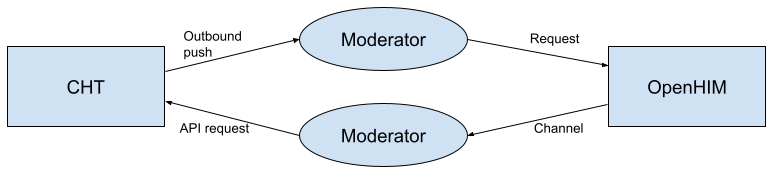
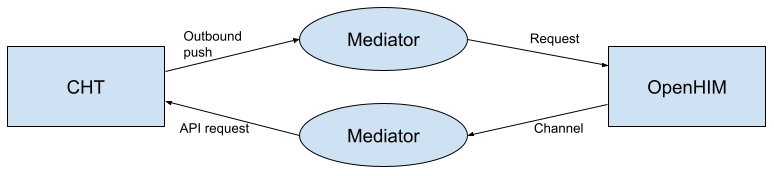
deploy: medic/cht-docs@d289a5fe4b73ff09335dff19f87dbf5526a49cdf

Changed region(s): [[0.4341, 0.7102, 0.5581, 0.8239], [0.4341, 0.1705, 0.5581, 0.2841]]

diff --git a/apps/concepts/interoperability/index.html b/apps/concepts/interoperability/index.html
@@ -1,7 +1,7 @@
 <!doctype html><html itemscope itemtype=http://schema.org/WebPage lang=en class=no-js><head><meta charset=utf-8><meta name=viewport content="width=device-width,initial-scale=1,shrink-to-fit=no"><meta name=generator content="Hugo 0.101.0"><meta name=robots content="index, follow"><link rel="shortcut icon" href=/favicons/favicon.ico><link rel=apple-touch-icon href=/favicons/apple-touch-icon-180x180.png sizes=180x180><link rel=icon type=image/png href=/favicons/favicon-16x16.png sizes=16x16><link rel=icon type=image/png href=/favicons/favicon-32x32.png sizes=32x32><link rel=icon type=image/png href=/favicons/android-36x36.png sizes=36x36><link rel=icon type=image/png href=/favicons/android-48x48.png sizes=48x48><link rel=icon type=image/png href=/favicons/android-72x72.png sizes=72x72><link rel=icon type=image/png href=/favicons/android-96x96.png sizes=96x96><link rel=icon type=image/png href=/favicons/android-144x144.png sizes=144x144><link rel=icon type=image/png href=/favicons/android-192x192.png sizes=192x192><title>Interoperability | Community Health Toolkit</title><meta name=description content="Exchanging information between CHT Core and other systems
 "><meta property="og:title" content="Interoperability"><meta property="og:description" content="Exchanging information between CHT Core and other systems
-"><meta property="og:type" content="article"><meta property="og:url" content="https://docs.communityhealthtoolkit.org/apps/concepts/interoperability/"><meta property="article:section" content="apps"><meta property="article:modified_time" content="2022-09-23T10:04:29+12:00"><meta property="og:site_name" content="Community Health Toolkit"><meta itemprop=name content="Interoperability"><meta itemprop=description content="Exchanging information between CHT Core and other systems
-"><meta itemprop=dateModified content="2022-09-23T10:04:29+12:00"><meta itemprop=wordCount content="312"><meta itemprop=keywords content><meta name=twitter:card content="summary"><meta name=twitter:title content="Interoperability"><meta name=twitter:description content="Exchanging information between CHT Core and other systems
+"><meta property="og:type" content="article"><meta property="og:url" content="https://docs.communityhealthtoolkit.org/apps/concepts/interoperability/"><meta property="article:section" content="apps"><meta property="article:modified_time" content="2022-10-24T23:39:20+03:00"><meta property="og:site_name" content="Community Health Toolkit"><meta itemprop=name content="Interoperability"><meta itemprop=description content="Exchanging information between CHT Core and other systems
+"><meta itemprop=dateModified content="2022-10-24T23:39:20+03:00"><meta itemprop=wordCount content="312"><meta itemprop=keywords content><meta name=twitter:card content="summary"><meta name=twitter:title content="Interoperability"><meta name=twitter:description content="Exchanging information between CHT Core and other systems
 "><link rel=preload href=/scss/main.min.1604795c89f6fbc83677a07dc13bb6ab15dd14fa8987efdac3897394da13c282.css as=style><link href=/scss/main.min.1604795c89f6fbc83677a07dc13bb6ab15dd14fa8987efdac3897394da13c282.css rel=stylesheet integrity><script src=https://code.jquery.com/jquery-3.6.0.min.js integrity=sha384-vtXRMe3mGCbOeY7l30aIg8H9p3GdeSe4IFlP6G8JMa7o7lXvnz3GFKzPxzJdPfGK crossorigin=anonymous></script>
 <script type=application/javascript>var doNotTrack=!1;doNotTrack||(window.ga=window.ga||function(){(ga.q=ga.q||[]).push(arguments)},ga.l=+new Date,ga("create","UA-168418637-1","auto"),ga("send","pageview"))</script><script async src=https://www.google-analytics.com/analytics.js></script></head><body class=td-page><header><nav class="js-navbar-scroll navbar navbar-expand navbar-dark flex-column flex-md-row td-navbar"><a class=navbar-brand href=/><span class=navbar-logo></span><span class=font-weight-bold>Community Health Toolkit</span></a><div class="td-navbar-nav-scroll ml-md-auto" id=main_navbar><ul class="navbar-nav mt-2 mt-lg-0"><li class="nav-item mr-4 mb-2 mb-lg-0"><a class=nav-link href=/apps/reference/><span>Reference</span></a></li></ul></div><div class="navbar-nav d-none d-lg-block"><input type=search class="form-control td-search-input" placeholder="&#xf002; Search this site…" aria-label="Search this site…" autocomplete=off></div></nav></header><div class="container-fluid td-outer"><div class=td-main><div class="row flex-xl-nowrap"><aside class="col-12 col-md-3 col-xl-2 td-sidebar d-print-none"><div id=td-sidebar-menu class=td-sidebar__inner><form class="td-sidebar__search d-flex align-items-center"><input type=search class="form-control td-search-input" placeholder="&#xf002; Search this site…" aria-label="Search this site…" autocomplete=off>
 <button class="btn btn-link td-sidebar__toggle d-md-none p-0 ml-3 fas fa-bars" type=button data-toggle=collapse data-target=#td-section-nav aria-controls=td-section-nav aria-expanded=false aria-label="Toggle section navigation"></button></form><nav class="collapse td-sidebar-nav foldable-nav" id=td-section-nav><ul class="td-sidebar-nav__section ul-0"><li class="td-sidebar-nav__section-title td-sidebar-nav__section with-child active-path" id=m--li><ul class=ul-1><li class="td-sidebar-nav__section-title td-sidebar-nav__section without-child" id=m-why-the-cht-li><input type=checkbox id=m-why-the-cht-check>
@@ -220,12 +220,12 @@
 <label for=m-contributedocsstyle-guide-check><a href=/contribute/docs/style-guide/ title="Documentation Style Guide" class="align-left pl-0 td-sidebar-link td-sidebar-link__page" id=m-contributedocsstyle-guide><span>Style Guide</span></a></label></li></ul></li><li class="td-sidebar-nav__section-title td-sidebar-nav__section without-child" id=m-contributecode-of-conduct-li><input type=checkbox id=m-contributecode-of-conduct-check>
 <label for=m-contributecode-of-conduct-check><a href=/contribute/code-of-conduct/ class="align-left pl-0 td-sidebar-link td-sidebar-link__page" id=m-contributecode-of-conduct><span>Code of Conduct</span></a></label></li></ul></li><li class="td-sidebar-nav__section-title td-sidebar-nav__section without-child" id=m-glossary-li><input type=checkbox id=m-glossary-check>
 <label for=m-glossary-check><a href=/glossary/ title="Glossary and Definitions" class="align-left pl-0 td-sidebar-link td-sidebar-link__page" id=m-glossary><span>Glossary</span></a></label></li></ul></li></ul></nav></div></aside><aside class="d-none d-xl-block col-xl-2 td-sidebar-toc d-print-none"><div class="td-page-meta ml-2 pb-1 pt-2 mb-0"><a href=https://github.com/medic/cht-docs/edit/main/content/en/apps/concepts/interoperability.md class=td-page-meta--edit target=_blank rel=noopener><i class="fa fa-edit fa-fw"></i> Edit this page</a>
-<a href="https://github.com/medic/cht-docs/issues/new?title=Improve+%27Interoperability%27&labels=enhancement&body=Page:+/apps/concepts/interoperability/%0aVersion:+2022-09-23%2010:04:29%20+1200%20+1200%0a---" class=td-page-meta--issue target=_blank rel=noopener><i class="fab fa-github fa-fw"></i> Create documentation issue</a>
-<a href=https://github.com/medic/cht-core/issues/new class=td-page-meta--project-issue target=_blank rel=noopener><i class="fas fa-tasks fa-fw"></i> Create project issue</a></div></aside><main class="col-12 col-md-9 col-xl-8 pl-md-5" role=main><nav aria-label=breadcrumb class=td-breadcrumbs><ol class=breadcrumb><li class=breadcrumb-item><a href=https://docs.communityhealthtoolkit.org/apps/>CHT Applications</a></li><li class=breadcrumb-item><a href=https://docs.communityhealthtoolkit.org/apps/concepts/>Concepts</a></li><li class="breadcrumb-item active" aria-current=page><a href=https://docs.communityhealthtoolkit.org/apps/concepts/interoperability/ aria-disabled=true class="btn-link disabled">Interoperability</a></li></ol></nav><div class=td-content><h1>Interoperability</h1><div class=lead>Exchanging information between CHT Core and other systems</div><header class=article-meta></header><h1 id=introduction>Introduction</h1><p>Interoperability is the ability of health information systems to work together, even if they weren&rsquo;t specifically designed to work together. With interoperability, patient information can be seen, exchanged, and used across different platforms. This is different from <em>integration</em> which requires custom development to connect two specific systems together.</p><p>Interoperability is the best practice for health systems because it allows information from one system to be shared with one or more other systems for with no additional development.</p><h1 id=components>Components</h1><p>Useful components and reference information for interoperability include</p><ul><li><a href=https://ohie.org/>OpenHIE</a> defines the architecture for an interoperability layer.</li><li><a href=http://openhim.org/>OpenHIM</a> is a middleware component designed to ease interoperability between systems.</li><li><a href=https://www.hl7.org/fhir/index.html>HL7 FHIR</a> is a messaging format to allow all systems to understand the format of the message.</li><li><a href=https://www.who.int/standards/classifications/classification-of-diseases>ICD-11</a> and <a href=https://loinc.org/>LOINC</a> are examples of classification systems.</li></ul><h1 id=cht>CHT</h1><p>The structure of documents in the CHT database reflect the configuration of the system, and therefore do not map directly to a FHIR message format. To achieve interoperability you should use middleware to convert the CHT datastructure into a standardized form so the other systems can read it.</p><figure><a href=flow.png><img src=flow.png></a></figure><p>The recommended approach is to use OpenHIM as the middleware component with Moderators to do the conversion. <a href=https://docs.communityhealthtoolkit.org/apps/reference/app-settings/outbound/>Outbound Push</a> should be configured to make a request to the middleware when relevant documents are created or modified in the CHT. A Moderator then calls <a href=https://docs.communityhealthtoolkit.org/apps/reference/api/>CHT APIs</a> to gather any additional data required to create a FHIR resource which is then routed to OpenHIM. OpenHIM will then route the resource to any other configured systems.</p><p>Conversely to bring data in to the CHT, OpenHIM should be configured to route the updated resource to a moderator, which then calls the relevant CHT APIs to update the document in the CHT database. This will then be replicated to users&rsquo; devices as per usual.</p><p>A reference application for this pattern is available in the <a href=https://github.com/medic/chis-interoperability>CHIS Interoperability repository</a>.</p><h2 id=related-content>Related Content</h2><div class=section-index><hr class=panel-line><div class=entry><h5><a href=/apps/features/integrations/>CHT Applications >
+<a href="https://github.com/medic/cht-docs/issues/new?title=Improve+%27Interoperability%27&labels=enhancement&body=Page:+/apps/concepts/interoperability/%0aVersion:+2022-10-24%2023:39:20%20+0300%20+0300%0a---" class=td-page-meta--issue target=_blank rel=noopener><i class="fab fa-github fa-fw"></i> Create documentation issue</a>
+<a href=https://github.com/medic/cht-core/issues/new class=td-page-meta--project-issue target=_blank rel=noopener><i class="fas fa-tasks fa-fw"></i> Create project issue</a></div></aside><main class="col-12 col-md-9 col-xl-8 pl-md-5" role=main><nav aria-label=breadcrumb class=td-breadcrumbs><ol class=breadcrumb><li class=breadcrumb-item><a href=https://docs.communityhealthtoolkit.org/apps/>CHT Applications</a></li><li class=breadcrumb-item><a href=https://docs.communityhealthtoolkit.org/apps/concepts/>Concepts</a></li><li class="breadcrumb-item active" aria-current=page><a href=https://docs.communityhealthtoolkit.org/apps/concepts/interoperability/ aria-disabled=true class="btn-link disabled">Interoperability</a></li></ol></nav><div class=td-content><h1>Interoperability</h1><div class=lead>Exchanging information between CHT Core and other systems</div><header class=article-meta></header><h1 id=introduction>Introduction</h1><p>Interoperability is the ability of health information systems to work together, even if they weren&rsquo;t specifically designed to work together. With interoperability, patient information can be seen, exchanged, and used across different platforms. This is different from <em>integration</em> which requires custom development to connect two specific systems together.</p><p>Interoperability is the best practice for health systems because it allows information from one system to be shared with one or more other systems for with no additional development.</p><h1 id=components>Components</h1><p>Useful components and reference information for interoperability include</p><ul><li><a href=https://ohie.org/>OpenHIE</a> defines the architecture for an interoperability layer.</li><li><a href=http://openhim.org/>OpenHIM</a> is a middleware component designed to ease interoperability between systems.</li><li><a href=https://www.hl7.org/fhir/index.html>HL7 FHIR</a> is a messaging format to allow all systems to understand the format of the message.</li><li><a href=https://www.who.int/standards/classifications/classification-of-diseases>ICD-11</a> and <a href=https://loinc.org/>LOINC</a> are examples of classification systems.</li></ul><h1 id=cht>CHT</h1><p>The structure of documents in the CHT database reflect the configuration of the system, and therefore do not map directly to a FHIR message format. To achieve interoperability you should use middleware to convert the CHT datastructure into a standardized form so the other systems can read it.</p><figure><a href=flow.png><img src=flow.png></a></figure><p>The recommended approach is to use OpenHIM as the middleware component with <a href=http://openhim.org/docs/configuration/mediators/>Mediators</a> to do the conversion. <a href=https://docs.communityhealthtoolkit.org/apps/reference/app-settings/outbound/>Outbound Push</a> should be configured to make a request to the middleware when relevant documents are created or modified in the CHT. A Mediator then calls <a href=https://docs.communityhealthtoolkit.org/apps/reference/api/>CHT APIs</a> to gather any additional data required to create a FHIR resource which is then routed to OpenHIM. OpenHIM will then route the resource to any other configured systems.</p><p>Conversely to bring data in to the CHT, OpenHIM should be configured to route the updated resource to a Mediator, which then calls the relevant CHT APIs to update the document in the CHT database. This will then be replicated to users&rsquo; devices as per usual.</p><p>A reference application for this pattern is available in the <a href=https://github.com/medic/chis-interoperability>CHIS Interoperability repository</a>.</p><h2 id=related-content>Related Content</h2><div class=section-index><hr class=panel-line><div class=entry><h5><a href=/apps/features/integrations/>CHT Applications >
 Features >
 Integrations</a></h5><p class=one-liner>Exchange data with other systems</p></div></div><style>.feedback--answer{display:inline-block}.feedback--answer-no{margin-left:1em}.feedback--response{display:none;margin-top:1em}.feedback--response__visible{display:block}</style><div class=d-print-none><h2 class=feedback--title>Feedback</h2><p class=feedback--question>Was this page helpful?</p><button class="btn btn-primary mb-4 feedback--answer feedback--answer-yes">Yes</button>
-<button class="btn btn-primary mb-4 feedback--answer feedback--answer-no">No</button><p class="feedback--response feedback--response-yes">Glad to hear it! Please <a href=https://github.com/medic/cht-docs/issues/new>tell us how we can improve</a>.</p><p class="feedback--response feedback--response-no">Sorry to hear that. Please <a href=https://github.com/medic/cht-docs/issues/new>tell us how we can improve</a>.</p></div><script>const yesButton=document.querySelector(".feedback--answer-yes"),noButton=document.querySelector(".feedback--answer-no"),yesResponse=document.querySelector(".feedback--response-yes"),noResponse=document.querySelector(".feedback--response-no"),disableButtons=()=>{yesButton.disabled=!0,noButton.disabled=!0},sendFeedback=e=>{if(typeof ga!="function")return;const t={command:"send",hitType:"event",category:"Helpful",action:"click",label:window.location.pathname,value:e};ga(t.command,t.hitType,t.category,t.action,t.label,t.value)};yesButton.addEventListener("click",()=>{yesResponse.classList.add("feedback--response__visible"),disableButtons(),sendFeedback(1)}),noButton.addEventListener("click",()=>{noResponse.classList.add("feedback--response__visible"),disableButtons(),sendFeedback(0)})</script><br><div class="text-muted mt-5 pt-3 border-top">Last modified 23.09.2022: <a href=https://github.com/medic/cht-docs/commit/d6cacf6c029558c0158aba6f99e8f52c6d604f79>Add best practice documentation for interop (d6cacf6)</a></div><div class="d-xl-none d-print-none meta-links"><div class="td-page-meta ml-2 pb-1 pt-2 mb-0"><a href=https://github.com/medic/cht-docs/edit/main/content/en/apps/concepts/interoperability.md class=td-page-meta--edit target=_blank rel=noopener><i class="fa fa-edit fa-fw"></i> Edit this page</a>
-<a href="https://github.com/medic/cht-docs/issues/new?title=Improve+%27Interoperability%27&labels=enhancement&body=Page:+/apps/concepts/interoperability/%0aVersion:+2022-09-23%2010:04:29%20+1200%20+1200%0a---" class=td-page-meta--issue target=_blank rel=noopener><i class="fab fa-github fa-fw"></i> Create documentation issue</a>
+<button class="btn btn-primary mb-4 feedback--answer feedback--answer-no">No</button><p class="feedback--response feedback--response-yes">Glad to hear it! Please <a href=https://github.com/medic/cht-docs/issues/new>tell us how we can improve</a>.</p><p class="feedback--response feedback--response-no">Sorry to hear that. Please <a href=https://github.com/medic/cht-docs/issues/new>tell us how we can improve</a>.</p></div><script>const yesButton=document.querySelector(".feedback--answer-yes"),noButton=document.querySelector(".feedback--answer-no"),yesResponse=document.querySelector(".feedback--response-yes"),noResponse=document.querySelector(".feedback--response-no"),disableButtons=()=>{yesButton.disabled=!0,noButton.disabled=!0},sendFeedback=e=>{if(typeof ga!="function")return;const t={command:"send",hitType:"event",category:"Helpful",action:"click",label:window.location.pathname,value:e};ga(t.command,t.hitType,t.category,t.action,t.label,t.value)};yesButton.addEventListener("click",()=>{yesResponse.classList.add("feedback--response__visible"),disableButtons(),sendFeedback(1)}),noButton.addEventListener("click",()=>{noResponse.classList.add("feedback--response__visible"),disableButtons(),sendFeedback(0)})</script><br><div class="text-muted mt-5 pt-3 border-top">Last modified 24.10.2022: <a href=https://github.com/medic/cht-docs/commit/d289a5fe4b73ff09335dff19f87dbf5526a49cdf>Updates to use mediators, not moderators (d289a5f)</a></div><div class="d-xl-none d-print-none meta-links"><div class="td-page-meta ml-2 pb-1 pt-2 mb-0"><a href=https://github.com/medic/cht-docs/edit/main/content/en/apps/concepts/interoperability.md class=td-page-meta--edit target=_blank rel=noopener><i class="fa fa-edit fa-fw"></i> Edit this page</a>
+<a href="https://github.com/medic/cht-docs/issues/new?title=Improve+%27Interoperability%27&labels=enhancement&body=Page:+/apps/concepts/interoperability/%0aVersion:+2022-10-24%2023:39:20%20+0300%20+0300%0a---" class=td-page-meta--issue target=_blank rel=noopener><i class="fab fa-github fa-fw"></i> Create documentation issue</a>
 <a href=https://github.com/medic/cht-core/issues/new class=td-page-meta--project-issue target=_blank rel=noopener><i class="fas fa-tasks fa-fw"></i> Create project issue</a></div></div></div></main></div></div><footer class="bg-dark py-5 row d-print-none"><div class="container-fluid mx-sm-5"><div class=row><div class="col-6 col-sm-4 text-xs-center order-sm-2"></div><div class="col-6 col-sm-4 text-right text-xs-center order-sm-3"></div><div class="col-12 col-sm-4 text-center py-2 order-sm-2"><small class=text-white>&copy; 2022 CHT All Rights Reserved</small>
 <small class=ml-1><a href="https://docs.google.com/document/d/1MaI1rgYMNyCZF2eEjBuvnBDoCYHDKlx4k_N5pkDiWu8/edit?usp=sharing" target=_blank rel=noopener>Privacy Policy</a></small></div></div></div></footer></div><script src=https://cdn.jsdelivr.net/npm/popper.js@1.16.1/dist/umd/popper.min.js integrity=sha384-9/reFTGAW83EW2RDu2S0VKaIzap3H66lZH81PoYlFhbGU+6BZp6G7niu735Sk7lN crossorigin=anonymous></script>
 <script src=https://cdn.jsdelivr.net/npm/bootstrap@4.6.1/dist/js/bootstrap.min.js integrity="sha512-UR25UO94eTnCVwjbXozyeVd6ZqpaAE9naiEUBK/A+QDbfSTQFhPGj5lOR6d8tsgbBk84Ggb5A3EkjsOgPRPcKA==" crossorigin=anonymous></script>
